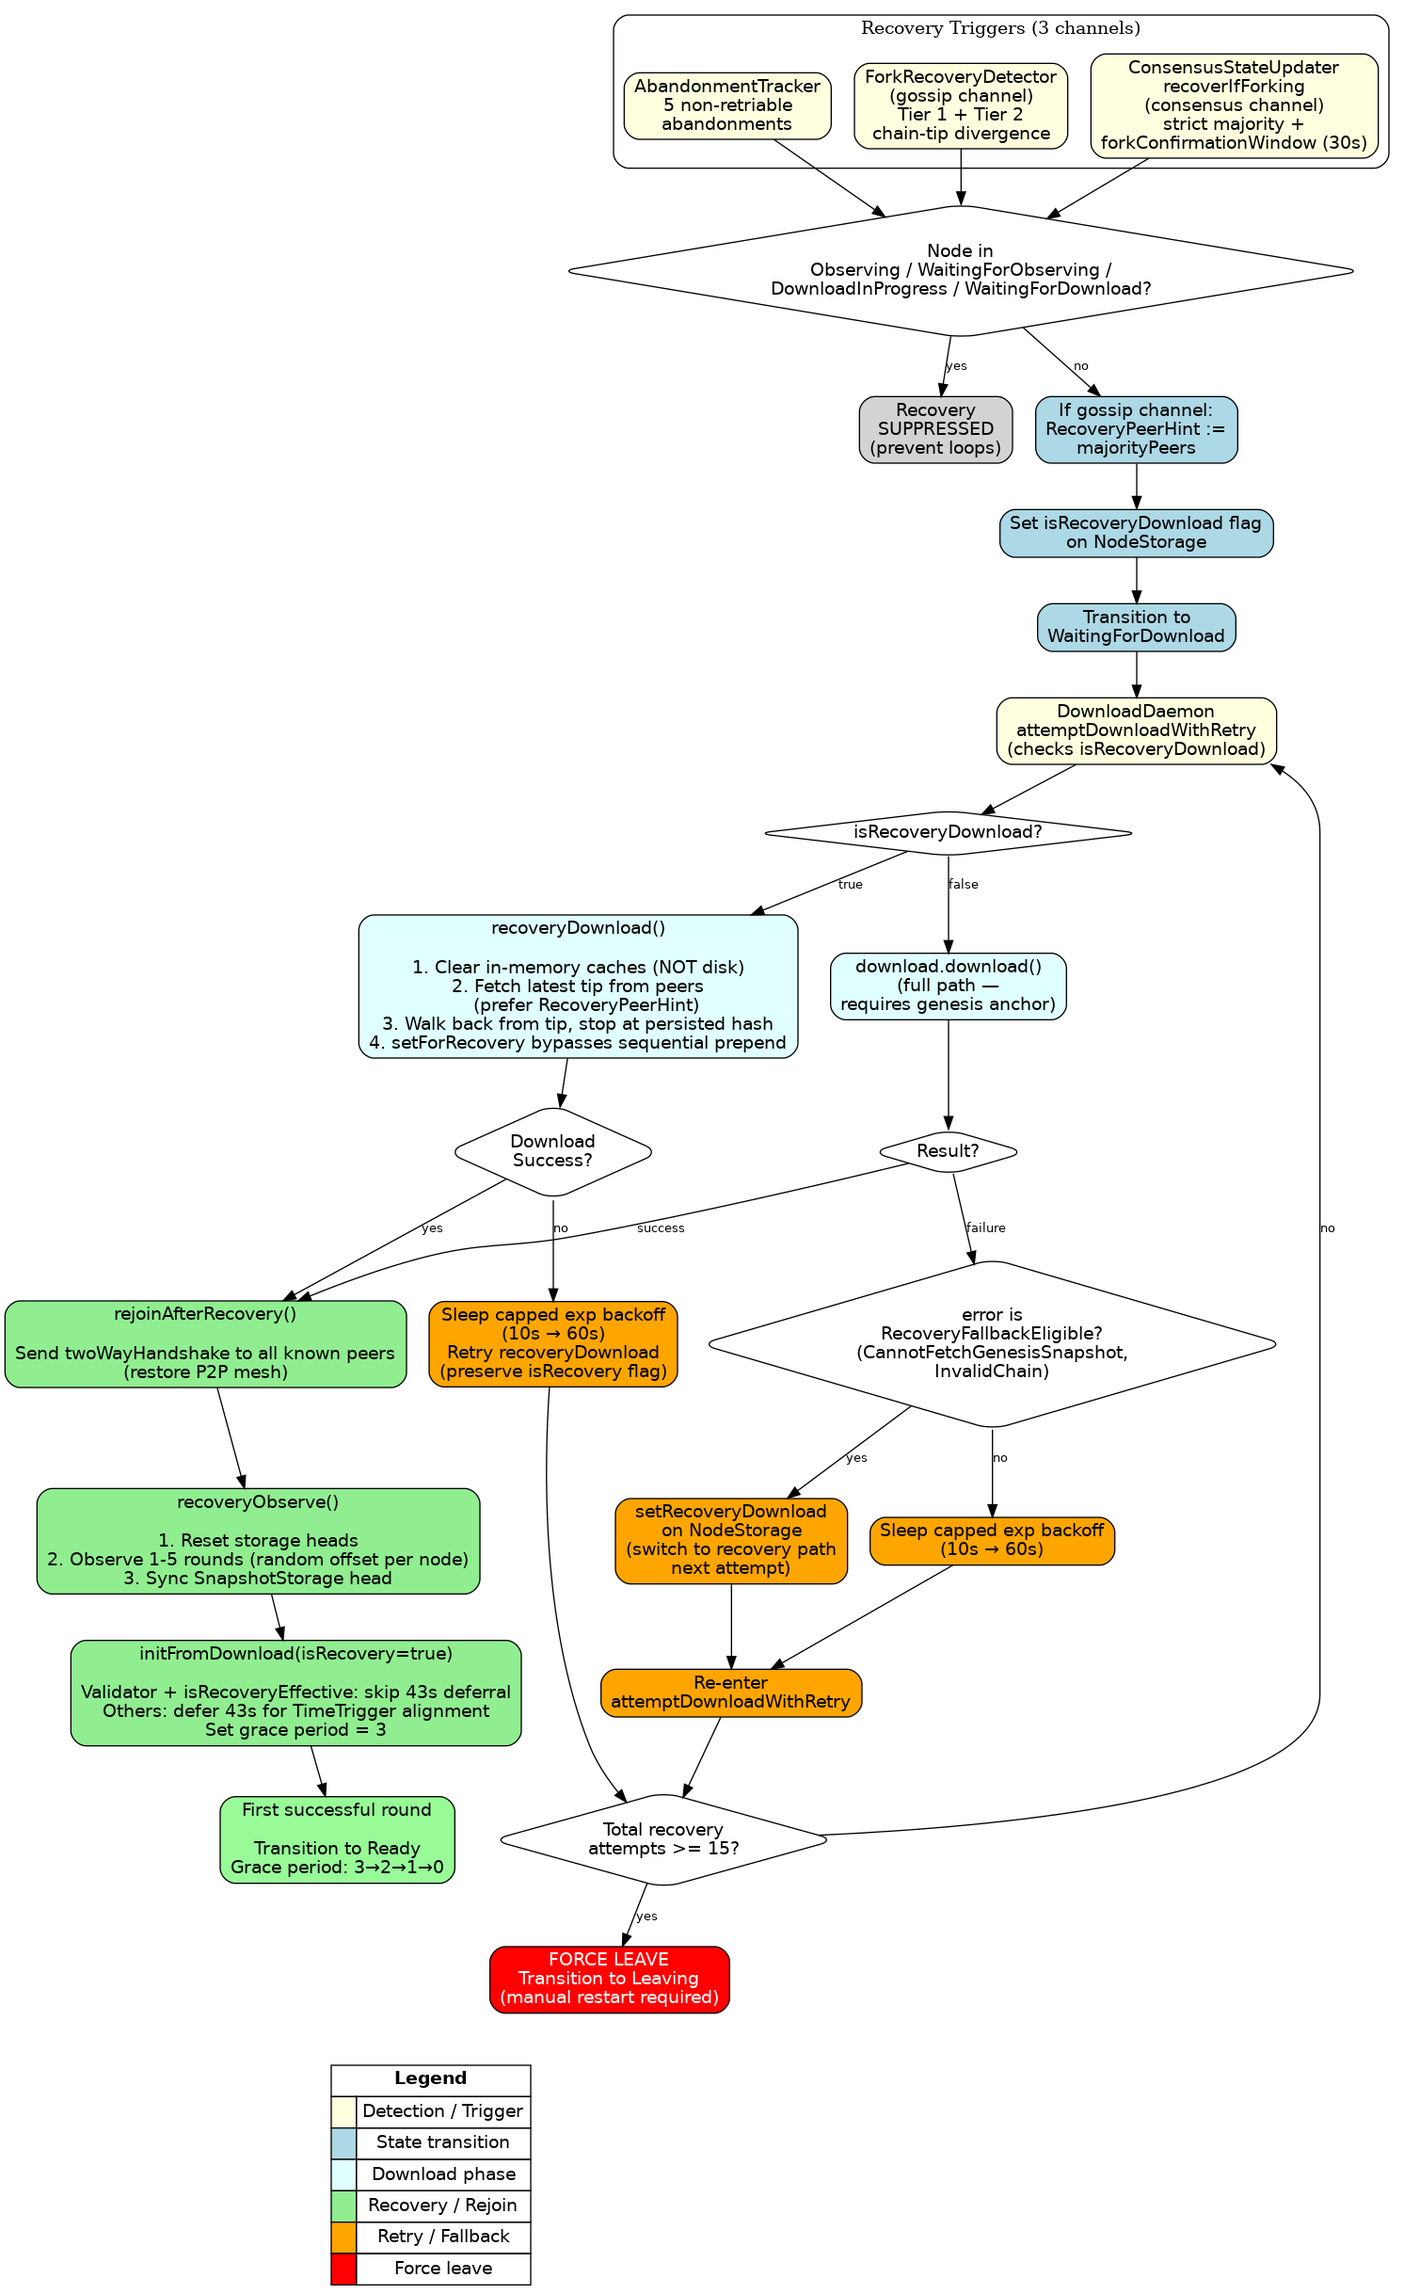
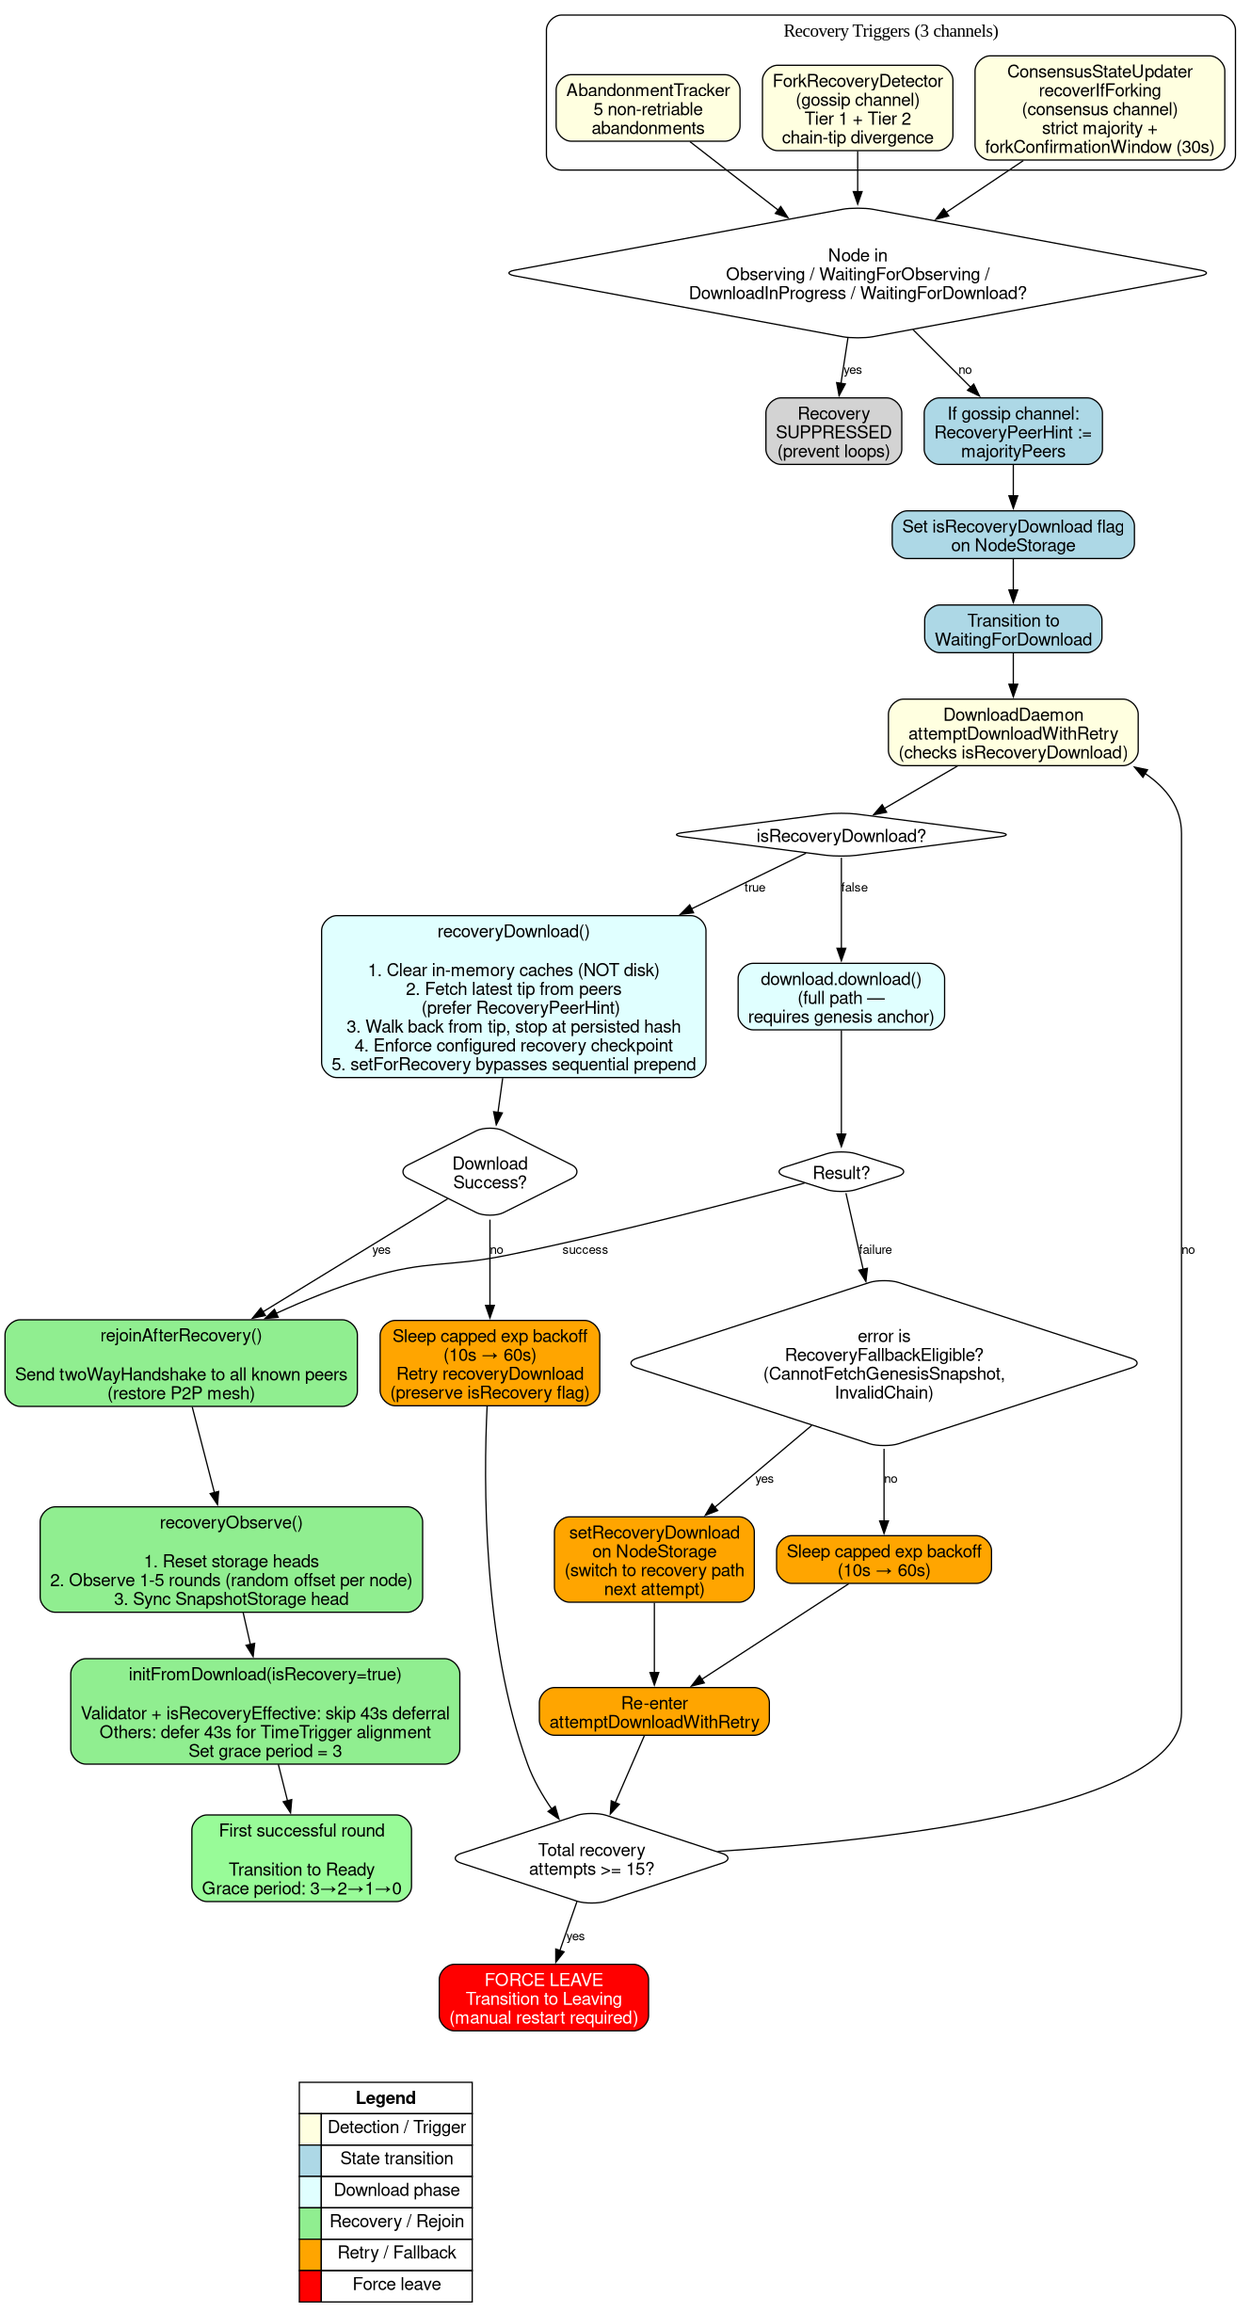
docs(consensus): refresh finality-floor and view-change narrative
Align the consensus docs and the CommitteeBuilder scaladoc with the shipped cluster-floor
finality model. Phase transitions and VCC/TC/B1/B2 liveness certificates use the Core
denominator (shrinkable by the quorum-shrink decision), but post-bootstrap snapshot finality
uses quorumFinalityDecision: it counts signatures over the frozen roundStartFacilitators
committee and clamps the required quorum to the committee floor, so a cluster-minority Core
can rotate leaders or assemble liveness certificates but cannot finalize a divergent snapshot.

- committee-tiers, quorum-shrink, signature-grace, README: Core is the normal liveness
  denominator; finality is separately floored; stage-2 shrink is liveness/cert paths only.
- timeout-certificate: document the A3 follow-up risk (the certified shrink rereads local
  timeout votes; it should be certificate-determined, not node-local gossip).
- README and diagrams: phase triggers are quorum-of-gate-peers (not all facilitators),
  performViewChange also emits a TimeoutVote, recovery enforces the configured checkpoint.
- CommitteeBuilder: drop an unused import and rewrite the finalization scaladoc.

diff --git a/docs/consensus/README.md b/docs/consensus/README.md
@@ -549,7 +549,7 @@ case class TimeoutVote(
 )
 ```
 
-`TimeoutReason` is `NoProgress` (round elapsed with no advance) or `QuorumInfeasible` (too few responsive committee members), computed by `StallDetector` and threaded through `performViewChange`. A `TimeoutCertificate` carries the same `(fromView, toView)`, `facilitatorsHash`, `lastSnapshotHash`, `reason`, and the `NonEmptySet[Signed[TimeoutVote]]` it assembled from.
+`TimeoutReason` is `NoProgress` (round elapsed with no advance) or `QuorumInfeasible` (too few responsive committee members). Today, in-tree `StallDetector` call sites emit the default `NoProgress`; `QuorumInfeasible` is reserved for a future path or explicit caller. A `TimeoutCertificate` carries the same `(fromView, toView)`, `facilitatorsHash`, `lastSnapshotHash`, `reason`, and the `NonEmptySet[Signed[TimeoutVote]]` it assembled from.
 
 ### EvictionVote (B1)
 
@@ -565,7 +565,7 @@ Symmetric positive-evidence: every committee member that observes a probation pe
 
 ### CollectingFacilities → CollectingProposals
 
-**Trigger**: All facilitators have sent `Facility` declarations
+**Trigger**: quorum of eligible gate peers has sent matching `Facility` declarations
 
 **Actions**:
 1. Pick **majority trigger** from all facilities
@@ -590,7 +590,7 @@ private def toProposalsPhase(
 
 ### CollectingProposals → CollectingSignatures
 
-**Trigger**: All facilitators have sent `Proposal` declarations
+**Trigger**: quorum of eligible gate peers has sent matching `Proposal` declarations
 
 **Actions**:
 1. Collect all proposal **hashes**
@@ -617,7 +617,7 @@ private def toSignaturesPhase(
 
 ### CollectingSignatures → Finished
 
-**Trigger**: All valid signatures collected
+**Trigger**: finality quorum reached and the signature-grace decision no longer waits
 
 **Actions**:
 1. Collect all `MajoritySignature` declarations
@@ -905,8 +905,8 @@ Poll (100ms-1000ms adaptive)
         Facility on capped exp-backoff schedule (5s / 10s / 20s / 30s / 30s, max 5 attempts)
       → Quorum infeasible AND missing peers Unresponsive: emit EvictionVote(s) for
         selectEvictionTargets candidates, queue CheckEvictionAssembly, then performViewChange
-      → Proposal phase, all declared but no proposal: performViewChange
-      → Other phases, all declared but no advance: count toward abandon
+      → Proposal phase, quorum declared but no proposal: performViewChange
+      → Other phases, quorum declared but no advance: count toward abandon
   → Every performViewChange ALSO emits a signed TimeoutVote with a TimeoutReason
     (NoProgress | QuorumInfeasible) and queues CheckTimeoutCertificateAssembly,
     in parallel with the ViewChangeVote / CheckViewChangeAssembly (two-track view advance)
@@ -1140,6 +1140,7 @@ Recovery can be triggered by three independent paths, all converging on `Waiting
      - Clear in-memory caches (lastN, lastGlobal) — NOT disk
      - Fetch latest tip from peers (preferring `RecoveryPeerHint` targets when set)
      - Download only the gap (walk back from tip, stop at persisted hash on disk)
+     - Enforce any configured seedlist-signed recovery checkpoint: the checkpoint file is verified at startup, downloaded/observed snapshots must pass the checkpoint hash at the checkpoint ordinal, and a local persisted chain whose resolved anchor is already at/above the checkpoint must also prove the checkpoint locally.
      - `setForRecovery` bypasses sequential prepend requirement on `SnapshotStorage`
    - **Full path** (`download.download`): used when a node has never run before.
    - **Full → recovery switch**: if a full download fails with an error tagged `RecoveryFallbackEligible` (currently `CannotFetchGenesisSnapshot` and `InvalidChain` in dag-l0; `InvalidChain` in currency-l0), the daemon sets `isRecoveryDownload` and retries with the recovery path. Detection uses the `RecoveryFallbackEligible` marker trait — a `getClass.getSimpleName` match would silently break on rename (`RecoveryFallbackEligible.scala`).
@@ -1342,16 +1343,18 @@ chance to land for reward inclusion, instead of concentrating rewards on Core.
 
 Two distinctions matter:
 
-- **The quorum denominator is the Core committee**, not the flat facilitator set. The
-  finalization safety-quorum is `max(1, QuorumPolicy.fromFraction(coreSize, quorumThresholdFraction))`
-  over Core (integer `unanimity` / `(2*coreSize + 2) / 3` supermajority); the more-permissive snapshot-finalization threshold
-  `(roundStartFacilitators.size / 2) + 1` spans Core + Tier 1. Safety in finalization
-  is enforced via `VoteLock` + the VCC/TC view-advance certificates, not by tightening
-  this threshold (`CommitteeBuilder.scala:13-18`).
-- **Config split.** `signatureGracePeriod` is the short Tier-1 grace window; the
-  Core-incomplete case waits the longer full window. The grace machine is the pure
-  decision; the caller owns the per-round `Stamp` in a `Ref` and applies the returned
-  `StampUpdate`.
+- **The normal liveness denominator is the Core committee**, not the flat facilitator
+  set. Phase transitions and VCC/TC/B1/B2 liveness certificates use
+  `max(1, QuorumPolicy.fromFraction(coreSize, quorumThresholdFraction))` over Core
+  (integer `unanimity` / `(2*coreSize + 2) / 3` supermajority), with the quorum-shrink
+  decision allowed to reduce liveness thresholds at a wedged key. Post-bootstrap
+  snapshot finality is stricter: it uses `quorumFinalityDecision`, counting signatures
+  over the frozen `roundStartFacilitators` committee and clamping the required quorum to
+  the frozen-committee floor.
+- **Config split.** `tier1SignatureGracePeriod` is the short Tier-1 grace window;
+  `signatureGracePeriod` is the longer Core-incomplete window. The grace machine is the
+  pure decision; the caller owns the per-round `Stamp` in a `Ref` and applies the
+  returned `StampUpdate`.
 
 The Core-quorum requirement still prevents a view-change minority from producing a
 fork snapshot: a minority that followed a view change while the majority continued

diff --git a/docs/consensus/quorum-shrink.md b/docs/consensus/quorum-shrink.md
@@ -130,15 +130,14 @@ With `q0 = max(1, QuorumPolicy.fromFraction(coreSize, fraction))` and `a = ancho
   anchor majority `a / 2 + 1`. Two conflicting shrunken certs are impossible here:
   shrunken-margin votes must come from anchor members, and two disjoint anchor subsets
   of size `> a/2` cannot exist (`QuorumDenominatorShrink.scala:63-65`).
-- **Stage 2 (liveness over partition safety).** Below the anchor majority, one further
-  reduction per `SubMajorityStepCost` steps, down to the hard floor `MinQuorumFloor`.
-  This is the regime that unwedges "half the anchor is dead" (the live 3-of-6 case). It
-  knowingly trades partition safety for liveness: two disjoint healthy anchor halves
-  under a full partition could each close a divergent round. That window requires BOTH
-  halves alive-but-partitioned for the entire escalation period (activation + stage-1 +
-  five steps per peer of stage 2), which at testnet values is tens of minutes of total
-  silence. It is accepted for testnet; mainnet keeps the rung disabled
-  (`QuorumDenominatorShrink.scala:66-71`).
+- **Stage 2 (liveness over partition safety, certificate paths only).** Below the anchor
+  majority, one further reduction per `SubMajorityStepCost` steps, down to the hard floor
+  `MinQuorumFloor`. This reduction can help liveness mechanisms such as VCC/TC leader
+  rotation and B1/B2 certificate assembly continue to move under a deeply degraded Core.
+  Post-bootstrap snapshot finalization does **not** follow this denominator all the way
+  down: finality applies the frozen-round-committee floor, so a cluster-minority Core may
+  rotate leaders or assemble liveness certificates but cannot finalize a divergent
+  snapshot by itself.
 
 Constants (`QuorumDenominatorShrink.scala:78-89`):
 
@@ -149,7 +148,11 @@ Constants (`QuorumDenominatorShrink.scala:78-89`):
   reduction; stage-2 reductions are deliberately 5x slower than stage-1 because they
   surrender the intersection guarantee.
 
-`requiredQuorum` is always clamped to `[MinQuorumFloor, baseQuorum]`.
+For shrink/liveness decisions, `requiredQuorum` is clamped to
+`[MinQuorumFloor, baseQuorum]`. For finality decisions, callers pass
+`applyClusterFloor = true`, which additionally clamps the quorum to the
+supermajority/unanimity floor of the frozen `roundStartFacilitators` committee outside
+bootstrap.
 
 ---
 
@@ -261,15 +264,17 @@ in `dag-l0.conf:177` and `currency-l0.conf:39`:
 
 ```hocon
 quorum-shrink-activation-views {
+  mainnet: 0
+  integrationnet: 0
+  dev: 0
   testnet: 10
 }
 ```
 
 `testnet: 10` means roughly 10 minutes of dead air at the 60s `viewInterval` before the
-first reduction; the post-restart 3-of-6 wedge unwedges at `required = 3` after roughly
-15 minutes of total silence (`dag-l0.conf:170-180`). Mainnet and dev are deliberately
-absent, so the rung is disabled there: the stage-2 regime trades partition safety for
-liveness and must be opted into per environment. Because the knob is in
+first reduction. The reduction applies to liveness/certificate paths; post-bootstrap
+snapshot finality remains fenced by the frozen committee floor. Mainnet, integrationnet,
+and dev are explicitly disabled (`0`) for a conservative launch. Because the knob is in
 `deterministicConfigHash`, changing it requires a coordinated cluster-wide redeploy.
 
 ---

diff --git a/docs/consensus/committee-tiers.md b/docs/consensus/committee-tiers.md
@@ -43,8 +43,8 @@ The tier integers are defined in `TierTransitions.scala:42-49`:
 
 | Tier | Constant | Value | What it can do |
 |------|----------|-------|----------------|
-| Core | `TierTransitions.Core` | `2` | Full facilitator. In the **liveness quorum**; the cert quorum (B1/B2/VCC) and the snapshot-finalization threshold are computed against the Core size. Only Core peers are eligible to **lead** a round. |
-| Tier 1 | `TierTransitions.Tier1` | `1` | Witness-eligible (B1/B2/VCC/TC witness pool). Tier-1 peers **sign** each round's `signedMajorityArtifact` and **earn** rewards proportionally. They cannot lead, and they do **not** count toward the cert quorum denominator, so a silent Tier-1 peer cannot wedge a certificate. |
+| Core | `TierTransitions.Core` | `2` | Full facilitator. In the **liveness quorum**; phase transitions and liveness certificates derive their normal denominator from Core. Only Core peers are eligible to **lead** a round. |
+| Tier 1 | `TierTransitions.Tier1` | `1` | Witness-eligible (B1/B2/VCC/TC witness pool). Tier-1 peers **sign** each round's `signedMajorityArtifact` and **earn** rewards proportionally. They cannot lead, and they do **not** count toward the normal liveness denominator, so a silent Tier-1 peer cannot wedge leader rotation. |
 | Witness | `TierTransitions.Witness` | `0` | Observation only. Open membership; in the v19 transition path peers fall here only via explicit eviction. |
 
 The key safety property: **the liveness quorum is gated on Core only.** The
@@ -57,10 +57,12 @@ comment at `GlobalSnapshotConsensusStateCreator.scala:61-66` states the contract
 quorum threshold is computed against `coreFacilitators.value.size`, NOT the full
 round-start committee.
 
-The snapshot-finalization threshold is a separate, more permissive
-`(roundStartFacilitators.size / 2) + 1` computed over Core + Tier 1; safety in
-finalization is enforced via VoteLock + VCC, not by tightening that threshold
-(`CommitteeBuilder.scala:16-18`).
+Snapshot finalization is a separate gate. During bootstrap it preserves the legacy
+Core-sized/strict-majority behavior. Outside bootstrap, finality uses the frozen
+`roundStartFacilitators` committee floor (`quorumFinalityDecision`), so a Core that has
+shrunk to a cluster minority can still rotate leaders or assemble liveness certificates
+but cannot finalize a divergent snapshot. The counted signer set is the frozen
+committee, not a locally mutated post-eviction subset.
 
 ### Reward and signer pool
 

diff --git a/docs/consensus/timeout-certificate.md b/docs/consensus/timeout-certificate.md
@@ -142,16 +142,21 @@ it loads the stored certificate and calls `applyCertifiedTimeoutCertificate`
 (`state/StateTransitions.scala:725`).
 
 Apply **re-runs** `TimeoutCertificateBuilder.build` against the freshly recomputed
-quorum and witness pool, so an apply never trusts the stored certificate blindly. If it
-still validates, the transition:
+quorum and witness pool, so an apply never trusts the stored certificate blindly. The
+current implementation also rereads the local timeout-vote cache when evaluating the
+certified shrink. That is a known follow-up risk: HotStuff-style view-change effects
+should be certificate-determined, so the shrink authority should come from the stored /
+proposal-carried certificate votes rather than node-local gossip state. If the
+certificate still validates, the transition:
 
 1. Optionally **certified-shrinks** the round-local active set. The shrink is evaluated
    on every certified timeout via `ActiveFacilitatorAdmission.fromCertifiedTimeout`,
    which retains the TC voters down to a floor of `q`
    (`state/StateTransitions.scala:786-798`). When a shrink applies, `state.facilitators`
    and `state.coreFacilitators` are reduced to the retained set so a reserve can replace
-   missing Core peers round-locally without reading local gossip state and without
-   changing the committed committee.
+   missing Core peers round-locally without changing the committed committee. Until the
+   A3 follow-up lands, this path should be treated as a liveness mechanism whose
+   determinism depends on aligning the shrink input with certificate-carried votes.
 2. Selects the new leader deterministically over the (possibly shrunken) pool:
    `facilitatorSelector.selectLeader(leaderPool, state.entropy, toView)`.
 3. Atomically advances the round under a `condModifyState` guard that only fires when

diff --git a/docs/consensus/signature-grace.md b/docs/consensus/signature-grace.md
@@ -91,9 +91,11 @@ round-start committee and the valid signatures collected so far
 - `coreSize = state.coreFacilitators.value.size`.
 - `coreComplete` -- every Core member has signed.
 - `fullCommitteeSigned` -- `validSignatures.size >= fullCommittee`.
-- `canFinalize` -- `validSignatures.size >= quorumThreshold` (the `(coreSize/2)+1`
-  Core-only finalization threshold), or the v33 quorum-denominator-shrink
-  `shrunkPath` admits the signer set (`...Advancer.scala:3216`).
+- `canFinalize` -- the current finality gate admits the signer set. During bootstrap
+  this is the legacy Core-sized / strict-majority path. Outside bootstrap it is the
+  committee-floored `quorumFinalityDecision`: the signer set is counted over the frozen
+  `roundStartFacilitators` committee, and the required quorum cannot shrink below that
+  frozen-committee floor.
 
 It then calls `evaluate` inside `signatureQuorumFirstSeenRef.modify`, folding the
 returned `StampUpdate` into the map and reading `waitMore` /`firstObserved` /
